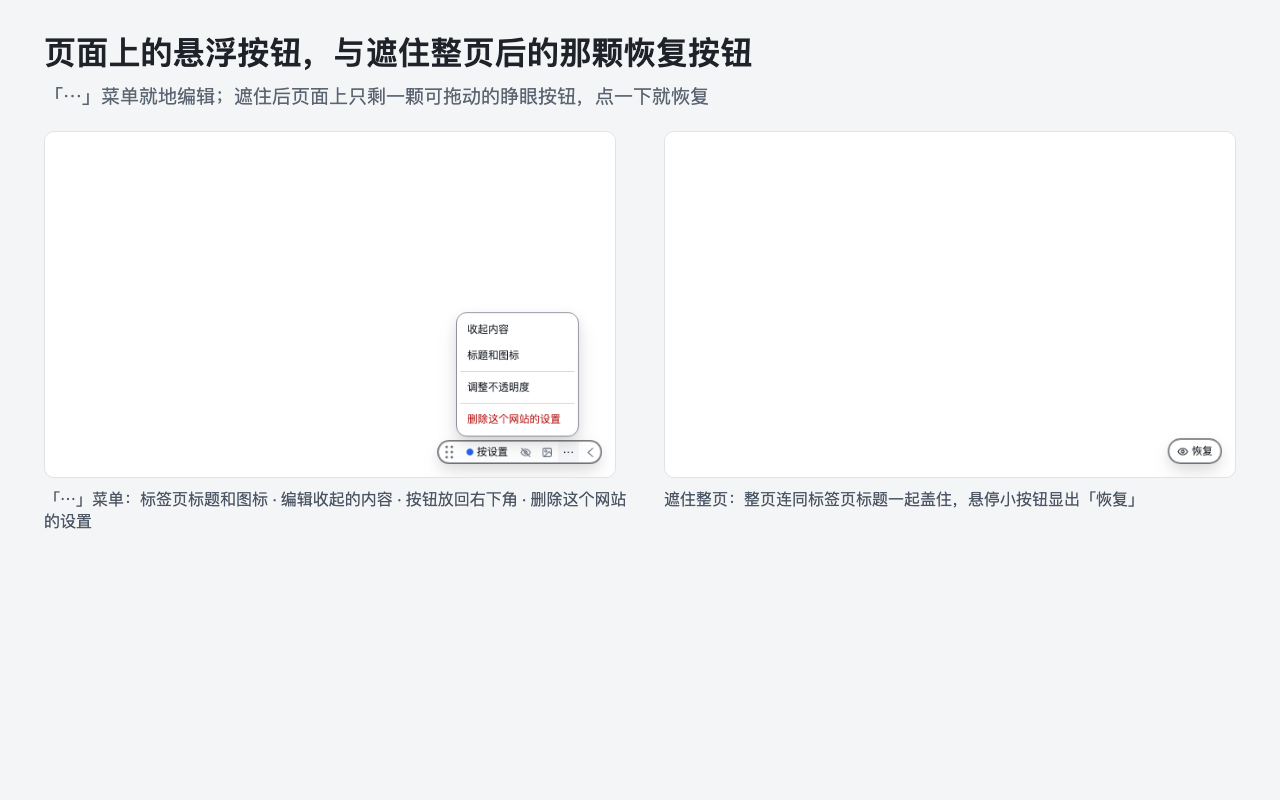
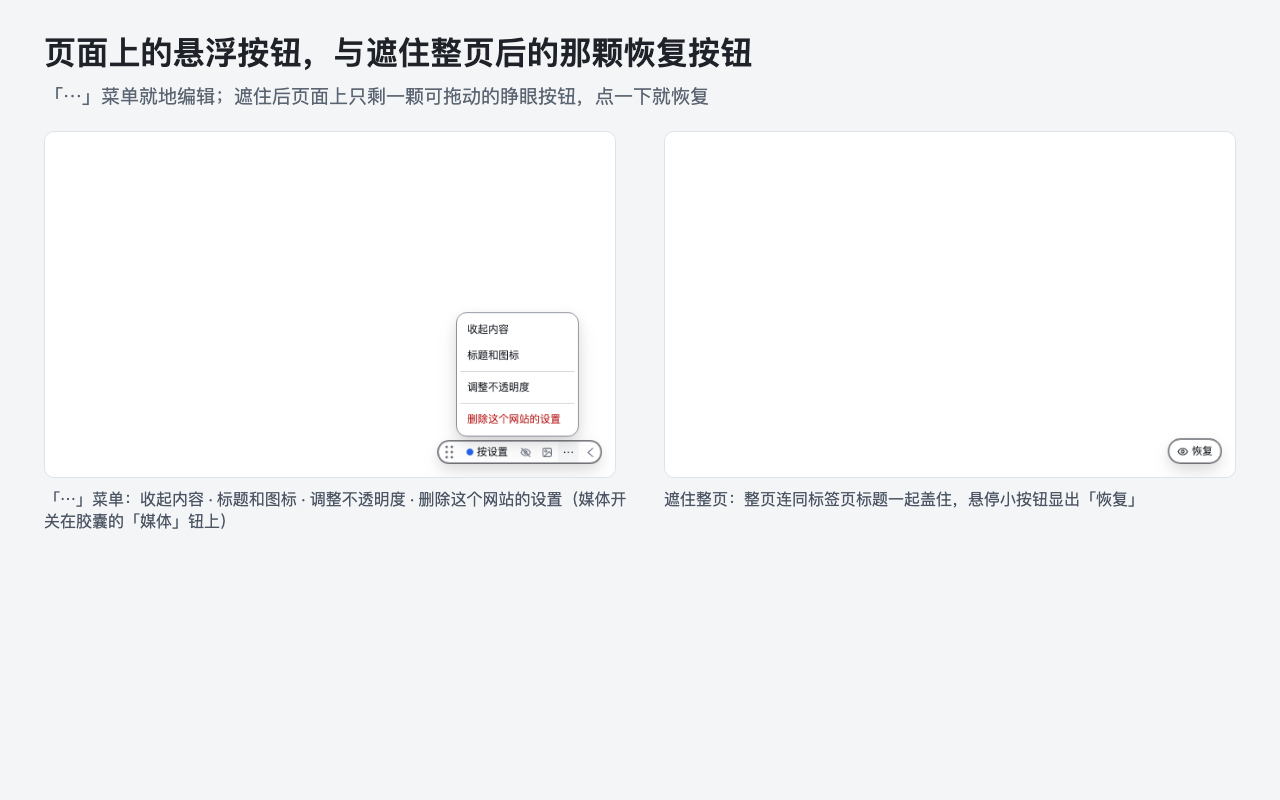
fix(#132 审查轮): 商店截图拼版两处——弹窗图注被裁（弹窗缩到 420px 宽）、⋯菜单图注是旧文案（改成实际四项，媒体钮单写）

Changed region(s): [[0.0312, 0.5938, 0.5, 0.6562]]

diff --git a/HANDOFF.md b/HANDOFF.md
@@ -11,7 +11,8 @@
 | 调研 + 平台核实 + 方案定稿 | **已完成、已提交** | X/Reddit/微博官方形态、contentSettings.sound 源码级核实、斜喇叭显示条件；spec / GLOSSARY / ADR-0013 / design.md 落地 |
 | 子票 1+2 数据行为 + 三处界面 | **已完成、已提交** | mediaGray 迁移、灰度 CSS、压制+放行、删静音对账、幕布静音；胶囊媒体钮（全功能 189px / mini 99px）、弹窗一行、站点设置卡、菜单媒体三行退场；门禁全绿（692 单测 + 842 项 E2E） |
 | #132 弹窗改版 | **已完成、已关票（916be2e）** | 共享图标组件（闭眼/睁眼/媒体三对同源）、遮住按钮带状态图标、排版重排；新眼睛目检放行（tmp/review-0.8.0/） |
-| 子票 3 文档 + 商店材料 + 发版 0.8.0 | **进行中（自主夜航）** | README/CHANGELOG/CHROMEWEBSTORE/PRIVACY 同类审计 → 版本号 → tag + release；发版后进入全量审查循环（0.8.1…） |
+| 子票 3 文档 + 商店材料 + 发版 0.8.0 | **已完成（118927c / tag v0.8.0 / release 已发）** | PRIVACY/README/CHROMEWEBSTORE 同类审计（中英）、CHANGELOG 0.8.0 双语、商店截图重拍、zip 附 release |
+| 全量深度审查循环 → 0.8.1 | **进行中（自主夜航）** | 独立代码审查（v0.7.1..v0.8.0）+ 全界面视觉巡检；发现问题建票修复后发 0.8.1，循环到收敛 |
 | 用户真机体感验证（微博/X） | 待产品所有者 | 灰度观感、自动播放压制、点击放行、幕布静音；E2E 只盖夹具站 |
 
 ## 状态表（0.7.x 批次，已收尾）
